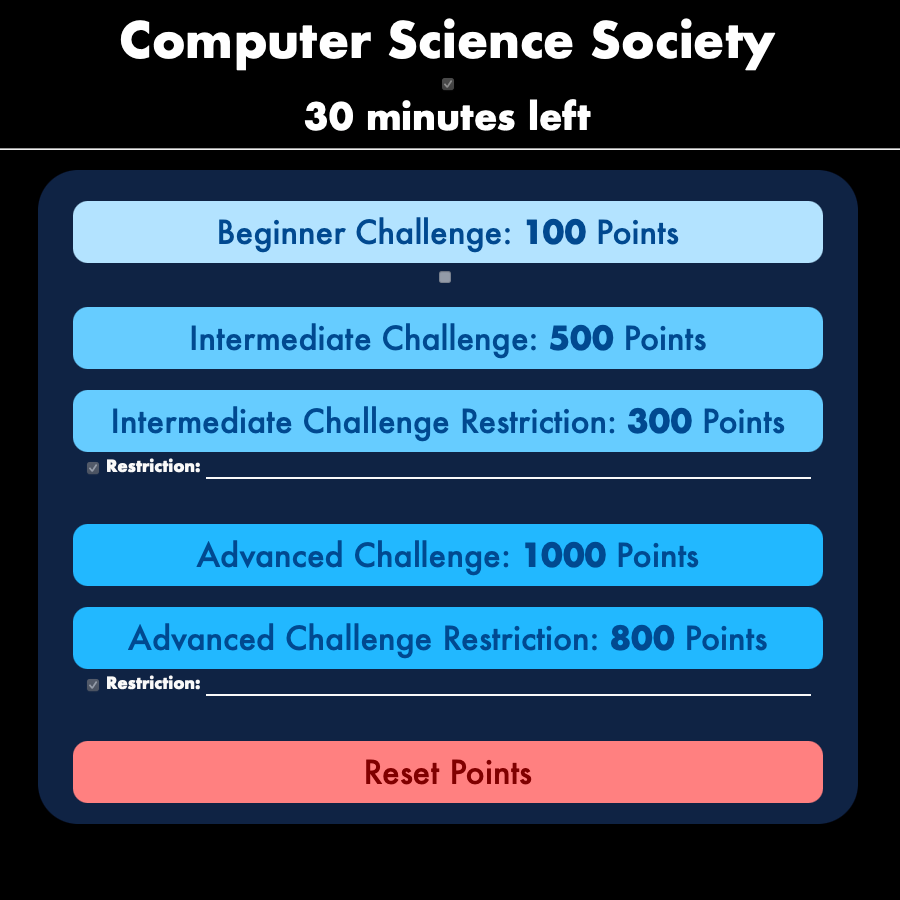
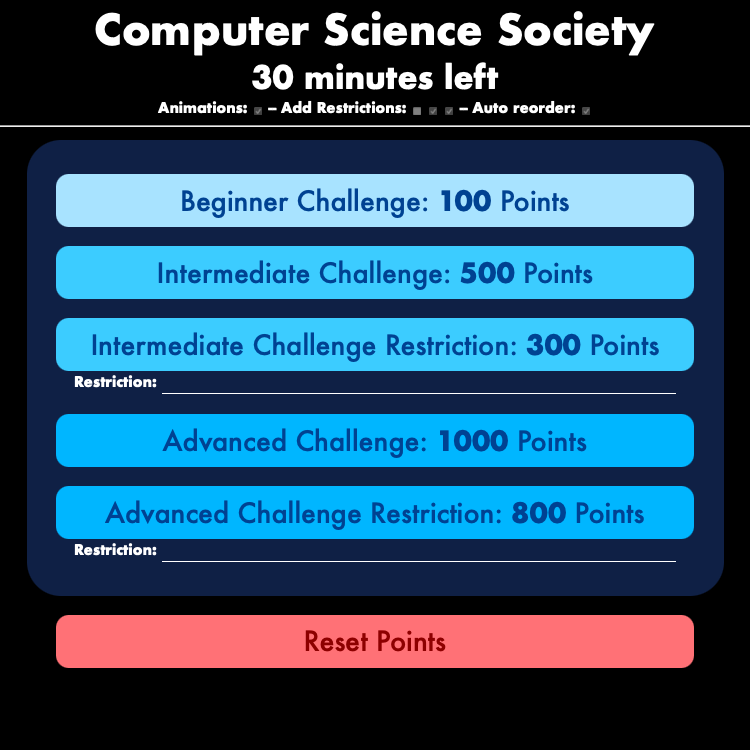
focus mode, and new images

diff --git a/points.html b/points.html
@@ -9,33 +9,36 @@
 		<script src="favicons.js"></script>
 	</head>
 	<body style="text-align: center; font-family: Futura, Arial; font-weight: bold;" onload="load()">
-		<button class="small_button" onclick="window.location.href='/';">Homepage</button>
-		<button id="mode" class="small_button" style="text-align: left; top: 50px; font-size:16px;" onclick="dark_mode()">Dark Mode</button>
-		<button class="small_button" style="right: calc(100% - 48px);;" onclick="show_hint()">Hint</button>
-		<div id="hint_box" style="color: inherit; background-color: transparent; text-align: left; position: absolute; top: 42px; left:10px; display: none; ">
-			You can toggle animations!<br>
-			Click the time to change the timer<br>
-			Click the other checkboxes to show/hide restrictions<br>
-			Shift click challenges button to deduct points immediately<br>
-			Shift click reset button to reset immediately<br>
+		<button id="focus_button" class="small_button" style="text-align: left; top: 90px; font-size:16px;" onclick="focus_mode()">Focus Mode</button>
+		<div id="focus" style="display: block">
+			<button class="small_button" onclick="window.location.href='/';">Homepage</button>
+			<button id="mode" class="small_button" style="text-align: left; top: 50px; font-size:16px;" onclick="dark_mode()">Dark Mode</button>
+			<button class="small_button" style="right: calc(100% - 48px);;" onclick="show_hint()">Hint</button>
+			<div id="hint_box" style="color: inherit; background-color: transparent; text-align: left; position: absolute; top: 42px; left:10px; display: none; ">
+				You can toggle animations!<br>
+				Click the time to change the timer<br>
+				Click the other checkboxes to show/hide restrictions<br>
+				Shift click challenges button to deduct immediately<br>
+				Shift click reset button to reset immediately<br>
+			</div>
+			<div style="font-size: 48px;" onclick="change_title()">
+				<span id="title">Computer Science Society</span>
+			</div>
+			<div style="font-size: 36px;" onclick="change_time()">
+				<span id="timer">30</span> minutes left
+			</div>
+			<div>
+				Animations: 
+				<input checked type="checkbox" onclick="animation()" style="opacity:0.5">
+				 -- Add Restrictions:
+				<input type="checkbox" onclick="swap(1)" style="opacity:0.5">
+				<input type="checkbox" onclick="swap(2)" style="opacity:0.5">
+				<input type="checkbox" onclick="swap(3)" style="opacity:0.5">
+				-- Auto reorder:
+				<input type="checkbox" onclick="reordering();" style="opacity:0.5">
+			</div>
+			<hr>
 		</div>
-		<div style="font-size: 48px;" onclick="change_title()">
-			<span id="title">Computer Science Society</span>
-		</div>
-		<div style="font-size: 36px;" onclick="change_time()">
-			<span id="timer">30</span> minutes left
-		</div>
-		<div>
-			Animations: 
-			<input checked type="checkbox" onclick="animation()" style="opacity:0.5">
-			 -- Add Restrictions:
-			<input type="checkbox" onclick="swap(1)" style="opacity:0.5">
-			<input type="checkbox" onclick="swap(2)" style="opacity:0.5">
-			<input type="checkbox" onclick="swap(3)" style="opacity:0.5">
-			-- Auto reorder:
-			<input type="checkbox" onclick="reordering();" style="opacity:0.5">
-		</div>
-		<hr>
 		<div id="wrapper" style="transition: 0.5s; margin: auto; margin-top: 16px; padding-top: 18px; padding-bottom: 38px; width: 820px; align-content: center; border-radius: 40px">
 			<div>
 				<br>

diff --git a/points.js b/points.js
@@ -211,3 +211,14 @@ function reorder() {
 		}
 	}
 }
+
+function focus_mode() {
+	if (document.getElementById("focus").style.display == "block") {
+		document.getElementById("focus").style.display = "None"
+		document.getElementById("focus_button").style.top = "10px"
+	}
+	else {
+		document.getElementById("focus").style.display = "block"
+		document.getElementById("focus_button").style.top = "90px"
+	}
+}
